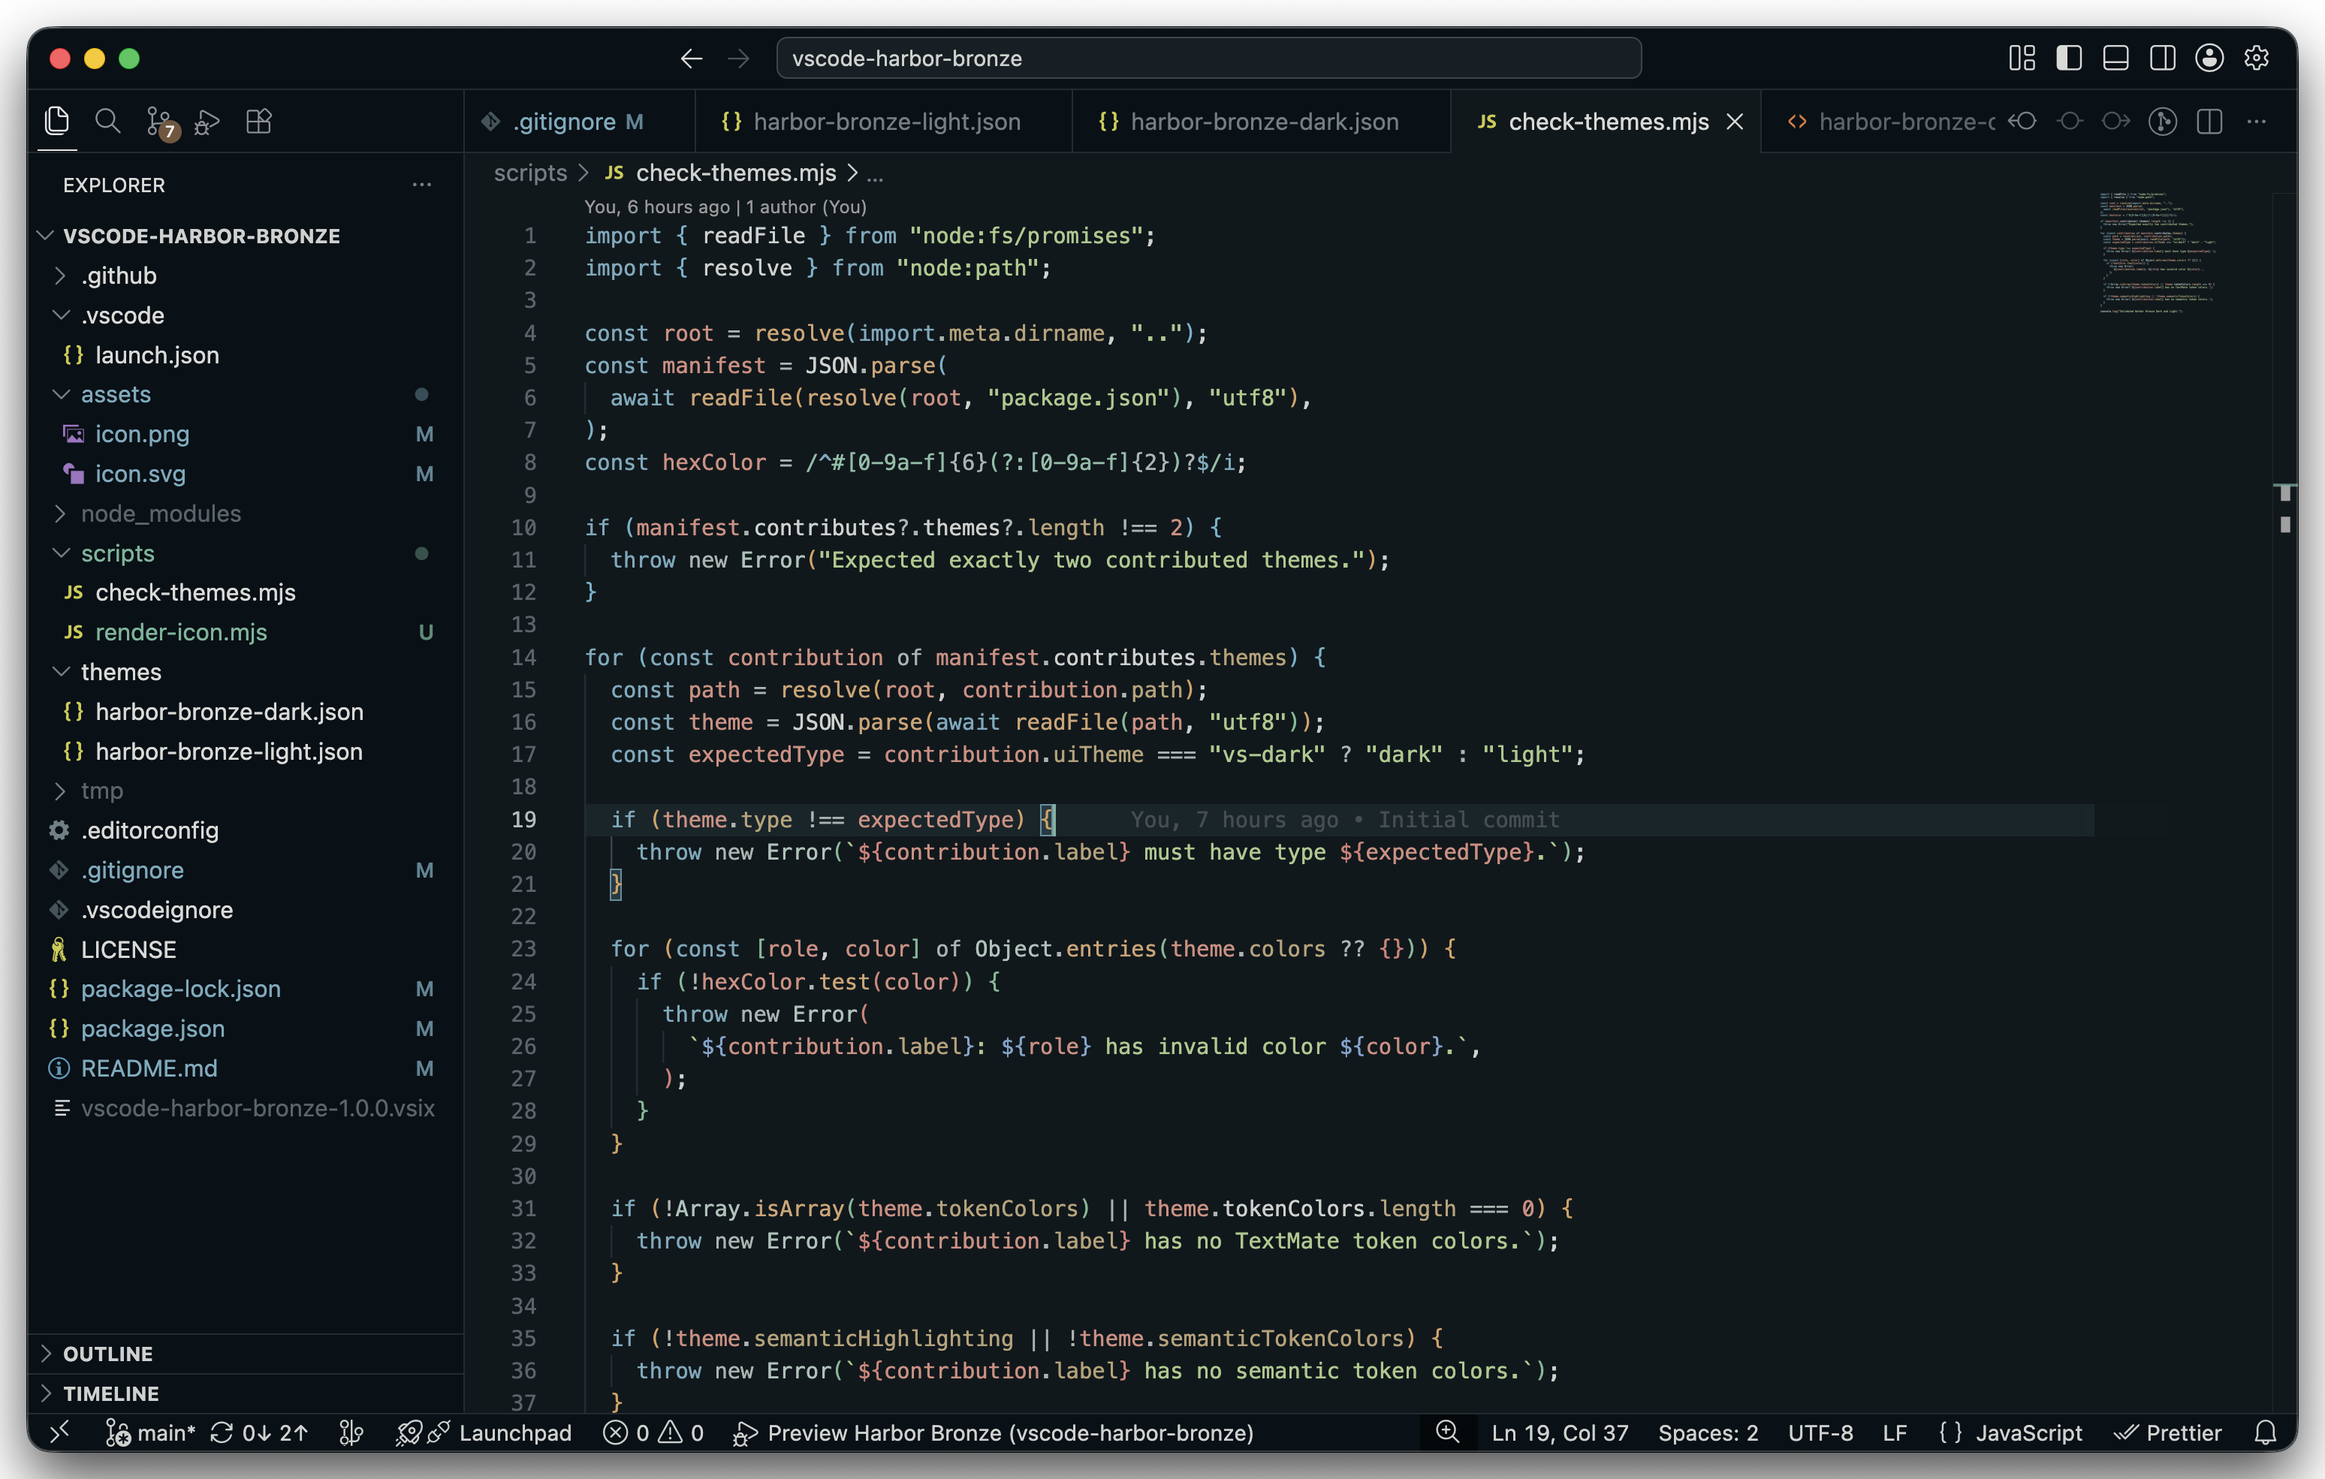
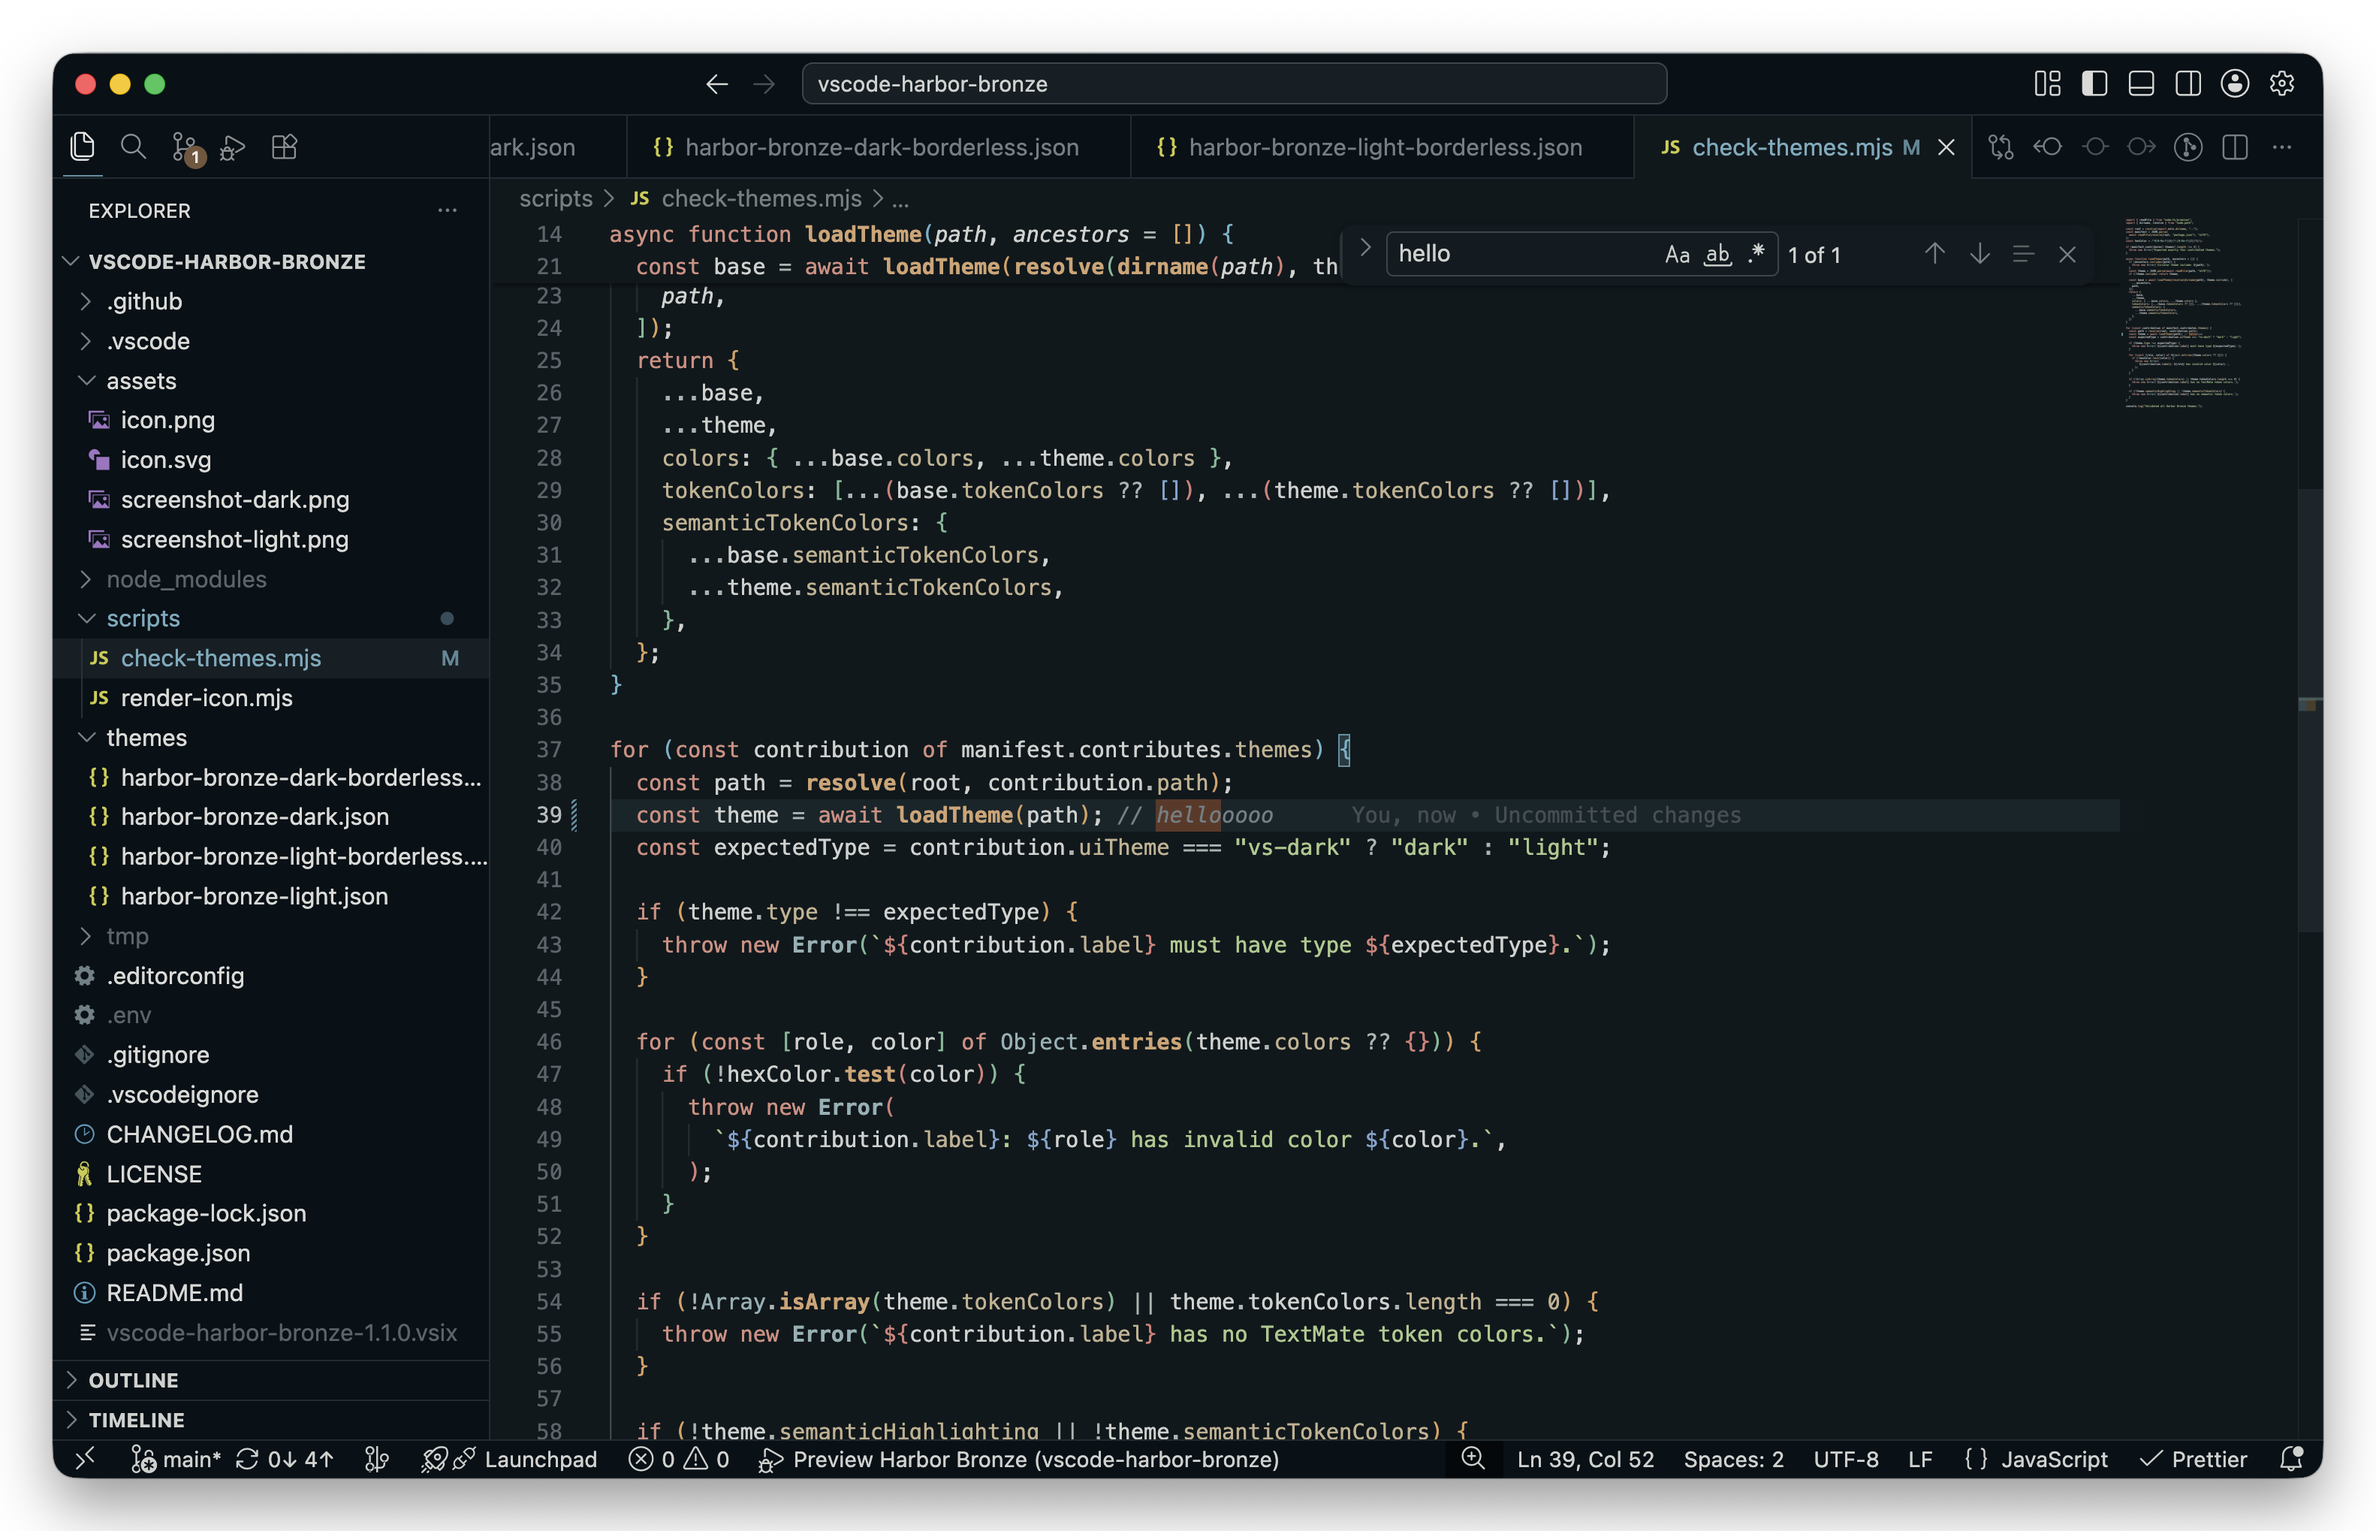
Update screenshots

diff --git a/README.md b/README.md
@@ -6,9 +6,17 @@ The theme comes in four variants: **Dark**, **Light**, **Dark Borderless**, and 
 
 ## Screenshots
 
+### Regular
+
 <img src="assets/screenshot-dark.png" width=750>
 
 <img src="assets/screenshot-light.png" width=750>
+
+### Borderless
+
+<img src="assets/screenshot-dark-borderless.png" width=750>
+
+<img src="assets/screenshot-light-borderless.png" width=750>
 
 ## Install
 
